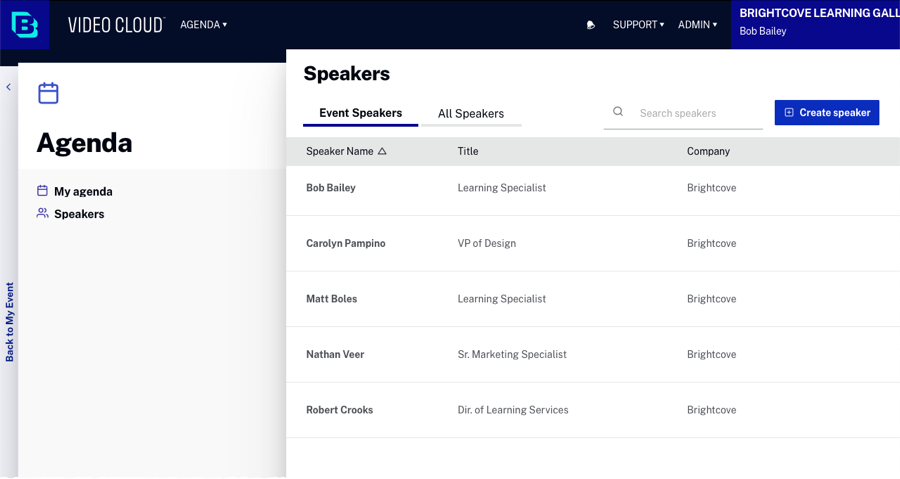
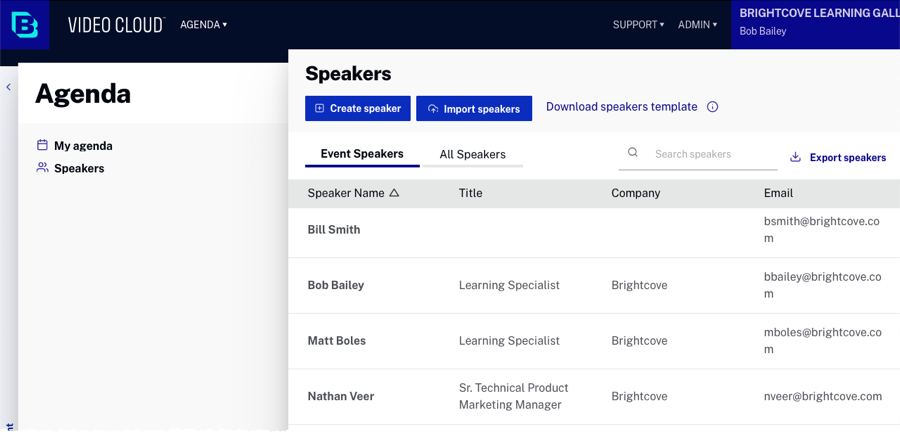
updates

diff --git a/_site/experiences/virtual-event/managing-event-speakers.html b/_site/experiences/virtual-event/managing-event-speakers.html
@@ -726,7 +726,7 @@ function doGTranslate(lang_pair) {if(lang_pair.value)lang_pair=lang_pair.value;i
     <h2 id="create">Creating a speaker</h2>
     <p>To create a new speaker, follow these steps.</p>
     <ol class="bcls-tasklist-restart">
-      <li>Click <strong>Create Speaker</strong>.</li>
+      <li>Click <strong>Create speaker</strong>.</li>
       <li>Enter the speaker <strong>First Name</strong> and <strong>Last Name</strong>.</li>
       <li>Enter the speaker <strong>Email</strong>.</li>
       <li>Enter the speaker <strong>Title</strong> and <strong>Company</strong>.</li>
@@ -736,6 +736,18 @@ function doGTranslate(lang_pair) {if(lang_pair.value)lang_pair=lang_pair.value;i
       </li>
       <li>Click <strong>Save</strong>.</li>
     </ol>
+  </section>
+<section class="bcls-section">
+    <h2 id="import">Importing speakers</h2>
+    <p>Before  importing a  speakers file, the speakers file should be saved as a .csv file. <strong>The Agenda module can only import  .csv files. </strong>To import a speakers file, follow these steps.</p>
+    <ol class="bcls-tasklist-restart">
+      <li>Click <strong>Import speakers</strong>.</li>
+      <li>Browse and select the speakers file to upload.</li>
+      <li>Confirm the agenda is listed on the <strong>My agenda</strong> page.
+        <figure class="bcls-figure"><img class="bcls-image--no-border" alt="" src="/assets/images/experiences/virtual-event/agenda-imported.png" /></figure>
+      </li>
+    </ol>
+    <p>If any errors occur during the agenda import, a message will be displayed. After the import, the agenda <strong>Status</strong> will be <strong>DEACTIVATED</strong> which indicates that the agenda will not be displayed in the Virtual Event Experience.</p>
   </section>
   <section class="bcls-section">
     <h2 id="edit">Editing a speaker</h2>
@@ -754,6 +766,15 @@ function doGTranslate(lang_pair) {if(lang_pair.value)lang_pair=lang_pair.value;i
       <li>Click <strong>Delete Speaker</strong>.</li>
       <li>Click <strong>Delete speaker</strong> to confirm the deletion.</li>
     </ol>
+  </section>
+    <section class="bcls-section">
+    <h2 id="export">Exporting a speakers file</h2>
+    <p>The Agenda module provides the ability to export a list of speakers. Exporting the speaker list  can be useful when:</p>
+    <ul>
+      <li>You want to download the list of speakers and then upload it to use in another experience</li>
+      <li>An event planner wants to to download a list of speakers and work with it in Microsoft Excel or another tool</li>
+    </ul>
+    <p>To export a list of speakers, click <strong>Export speakers</strong> at the top of the page.</p>
   </section>
   <section class="bcls-section">
     <h2 id="search">Searching for  speakers</h2>

diff --git a/experiences/virtual-event/managing-event-speakers.html b/experiences/virtual-event/managing-event-speakers.html
@@ -24,7 +24,7 @@ layout: staging
     <h2 id="create">Creating a speaker</h2>
     <p>To create a new speaker, follow these steps.</p>
     <ol class="bcls-tasklist-restart">
-      <li>Click <strong>Create Speaker</strong>.</li>
+      <li>Click <strong>Create speaker</strong>.</li>
       <li>Enter the speaker <strong>First Name</strong> and <strong>Last Name</strong>.</li>
       <li>Enter the speaker <strong>Email</strong>.</li>
       <li>Enter the speaker <strong>Title</strong> and <strong>Company</strong>.</li>
@@ -34,6 +34,18 @@ layout: staging
       </li>
       <li>Click <strong>Save</strong>.</li>
     </ol>
+  </section>
+<section class="bcls-section">
+    <h2 id="import">Importing speakers</h2>
+    <p>Before  importing a  speakers file, the speakers file should be saved as a .csv file. <strong>The Agenda module can only import  .csv files. </strong>To import a speakers file, follow these steps.</p>
+    <ol class="bcls-tasklist-restart">
+      <li>Click <strong>Import speakers</strong>.</li>
+      <li>Browse and select the speakers file to upload.</li>
+      <li>Confirm the agenda is listed on the <strong>My agenda</strong> page.
+        <figure class="bcls-figure"><img class="bcls-image--no-border" alt="" src="/assets/images/experiences/virtual-event/agenda-imported.png" /></figure>
+      </li>
+    </ol>
+    <p>If any errors occur during the agenda import, a message will be displayed. After the import, the agenda <strong>Status</strong> will be <strong>DEACTIVATED</strong> which indicates that the agenda will not be displayed in the Virtual Event Experience.</p>
   </section>
   <section class="bcls-section">
     <h2 id="edit">Editing a speaker</h2>
@@ -52,6 +64,15 @@ layout: staging
       <li>Click <strong>Delete Speaker</strong>.</li>
       <li>Click <strong>Delete speaker</strong> to confirm the deletion.</li>
     </ol>
+  </section>
+    <section class="bcls-section">
+    <h2 id="export">Exporting a speakers file</h2>
+    <p>The Agenda module provides the ability to export a list of speakers. Exporting the speaker list  can be useful when:</p>
+    <ul>
+      <li>You want to download the list of speakers and then upload it to use in another experience</li>
+      <li>An event planner wants to to download a list of speakers and work with it in Microsoft Excel or another tool</li>
+    </ul>
+    <p>To export a list of speakers, click <strong>Export speakers</strong> at the top of the page.</p>
   </section>
   <section class="bcls-section">
     <h2 id="search">Searching for  speakers</h2>

diff --git a/_site/experiences/virtual-event/managing-agenda-virtual-event-experience.html b/_site/experiences/virtual-event/managing-agenda-virtual-event-experience.html
@@ -728,7 +728,7 @@ function doGTranslate(lang_pair) {if(lang_pair.value)lang_pair=lang_pair.value;i
   </section>
   <section class="bcls-section">
     <h2 id="import">Importing an agenda file</h2>
-    <p>Before  importing an  agenda file into the Agenda module, the agenda file should be saved as a .csv file. <strong>The Agenda module can only import  .csv files. </strong>To import an agenda file to a Virtual Event Experience, follow these steps.</p>
+    <p>Before  importing an  agenda file into the Agenda module, the agenda file should be saved as a .csv file. <strong>The Agenda module can only import  .csv files. </strong>To import an agenda file, follow these steps.</p>
     <ol class="bcls-tasklist-restart">
       <li>Click <strong>Import agenda</strong>.</li>
       <li>Browse and select the agenda file to upload.</li>
@@ -744,12 +744,12 @@ function doGTranslate(lang_pair) {if(lang_pair.value)lang_pair=lang_pair.value;i
   </section>
   <section class="bcls-section">
     <h2 id="export">Exporting the agenda file</h2>
-    <p>The Agenda module provides the ability to download the agenda file. Downloading the agenda can be useful when:</p>
+    <p>The Agenda module provides the ability to export the agenda. Exporting the agenda can be useful when:</p>
     <ul>
-      <li>You want to download an event agenda to use in another experience</li>
-      <li>An event planner wants to to download a copy of the agenda and maybe work with it in Microsoft Excel or another tool</li>
+      <li>You want to export an event agenda to edit and then use in another experience</li>
+      <li>An event planner wants to to export a copy of the agenda and work with it in Microsoft Excel or another tool</li>
     </ul>
-    <p>To download the agenda, click the download icon (<img class="bcls-image--no-border" alt="" src="/assets/images/experiences/virtual-event/icon-download.png" />) next to the agenda.</p>
+    <p>To export the agenda, click the download icon (<img class="bcls-image--no-border" alt="" src="/assets/images/experiences/virtual-event/icon-download.png" />) next to the agenda.</p>
   </section>
   <section class="bcls-section">
     <h2 id="title">Editing the agenda title</h2>

diff --git a/experiences/virtual-event/managing-agenda-virtual-event-experience.html b/experiences/virtual-event/managing-agenda-virtual-event-experience.html
@@ -26,7 +26,7 @@ layout: staging
   </section>
   <section class="bcls-section">
     <h2 id="import">Importing an agenda file</h2>
-    <p>Before  importing an  agenda file into the Agenda module, the agenda file should be saved as a .csv file. <strong>The Agenda module can only import  .csv files. </strong>To import an agenda file to a Virtual Event Experience, follow these steps.</p>
+    <p>Before  importing an  agenda file into the Agenda module, the agenda file should be saved as a .csv file. <strong>The Agenda module can only import  .csv files. </strong>To import an agenda file, follow these steps.</p>
     <ol class="bcls-tasklist-restart">
       <li>Click <strong>Import agenda</strong>.</li>
       <li>Browse and select the agenda file to upload.</li>
@@ -42,12 +42,12 @@ layout: staging
   </section>
   <section class="bcls-section">
     <h2 id="export">Exporting the agenda file</h2>
-    <p>The Agenda module provides the ability to download the agenda file. Downloading the agenda can be useful when:</p>
+    <p>The Agenda module provides the ability to export the agenda. Exporting the agenda can be useful when:</p>
     <ul>
-      <li>You want to download an event agenda to use in another experience</li>
-      <li>An event planner wants to to download a copy of the agenda and maybe work with it in Microsoft Excel or another tool</li>
+      <li>You want to export an event agenda to edit and then use in another experience</li>
+      <li>An event planner wants to to export a copy of the agenda and work with it in Microsoft Excel or another tool</li>
     </ul>
-    <p>To download the agenda, click the download icon (<img class="bcls-image--no-border" alt="" src="/assets/images/experiences/virtual-event/icon-download.png" />) next to the agenda.</p>
+    <p>To export the agenda, click the download icon (<img class="bcls-image--no-border" alt="" src="/assets/images/experiences/virtual-event/icon-download.png" />) next to the agenda.</p>
   </section>
   <section class="bcls-section">
     <h2 id="title">Editing the agenda title</h2>
